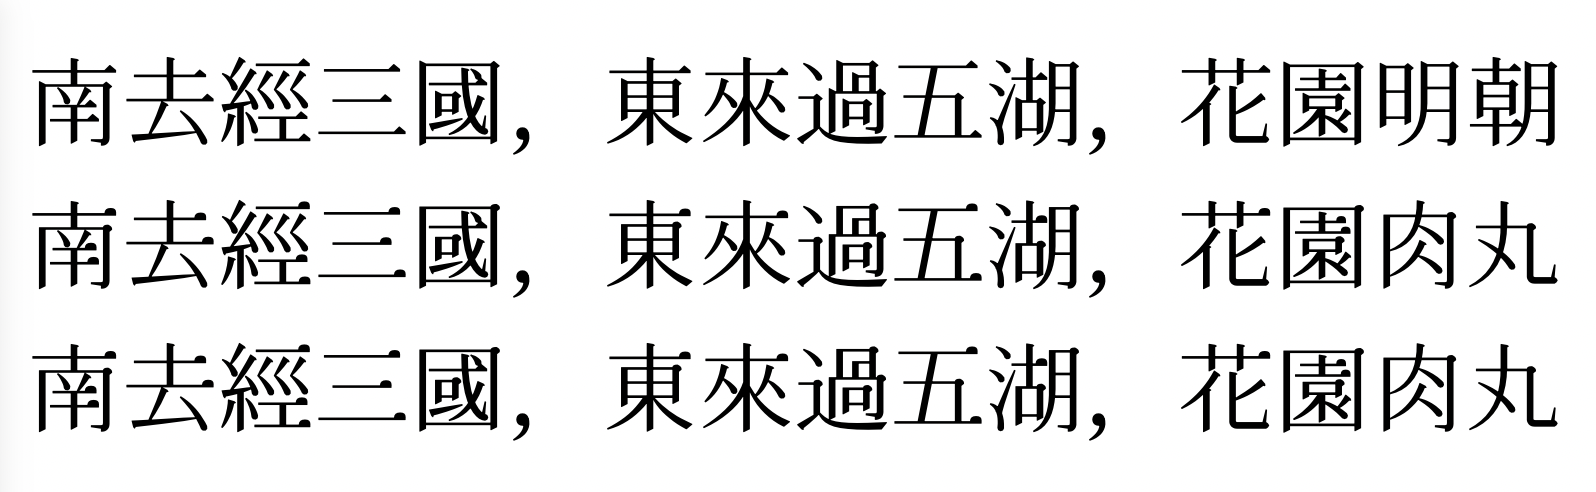
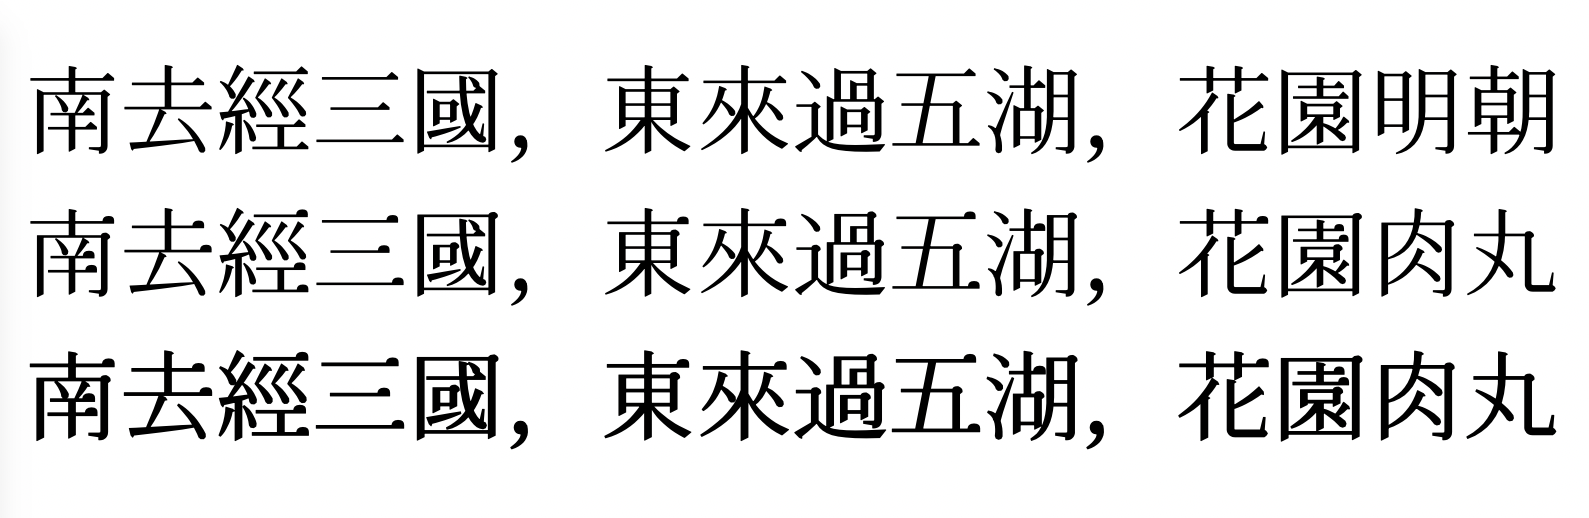
fix compare image and description

diff --git a/README.md b/README.md
@@ -12,11 +12,11 @@ B2花園與花園明朝字體比較：
 附註：Regular 字重，是直接來自花園明朝，Medium 字重是透過程式產生，不能確定所有的字都正常，可能會轉換失敗。
 
 ## 花園肉丸 (Hana Meatball)
-B2花園字體基於花園明朝的三角形換半圓形改造，遊走於古典與可愛之間的字體。歡迎大家自由應用、自由優化、自由改作！
-![B2花園字體預覽](https://github.com/max32002/max-hana/raw/master/preview/welcome_b2hana.png)
+花園肉丸字體基於花園明朝的三角形換半圓形改造，遊走於古典與可愛之間的字體。歡迎大家自由應用、自由優化、自由改作！
+![花園肉丸字體預覽](https://github.com/max32002/max-hana/raw/master/preview/welcome_hahameatball.png)
 
-B2花園與花園明朝字體比較：
-![B2花園字體比較預覽](https://github.com/max32002/max-hana/raw/master/preview/compare_hana_b2.png)
+花園肉丸與花園明朝字體比較：
+![花園肉丸字體比較預覽](https://github.com/max32002/max-hana/raw/master/preview/compare_hana_meatball.png)
 
 附註：Regular 字重，是直接來自花園明朝，Medium 字重是透過程式產生，不能確定所有的字都正常，可能會轉換失敗。
 
